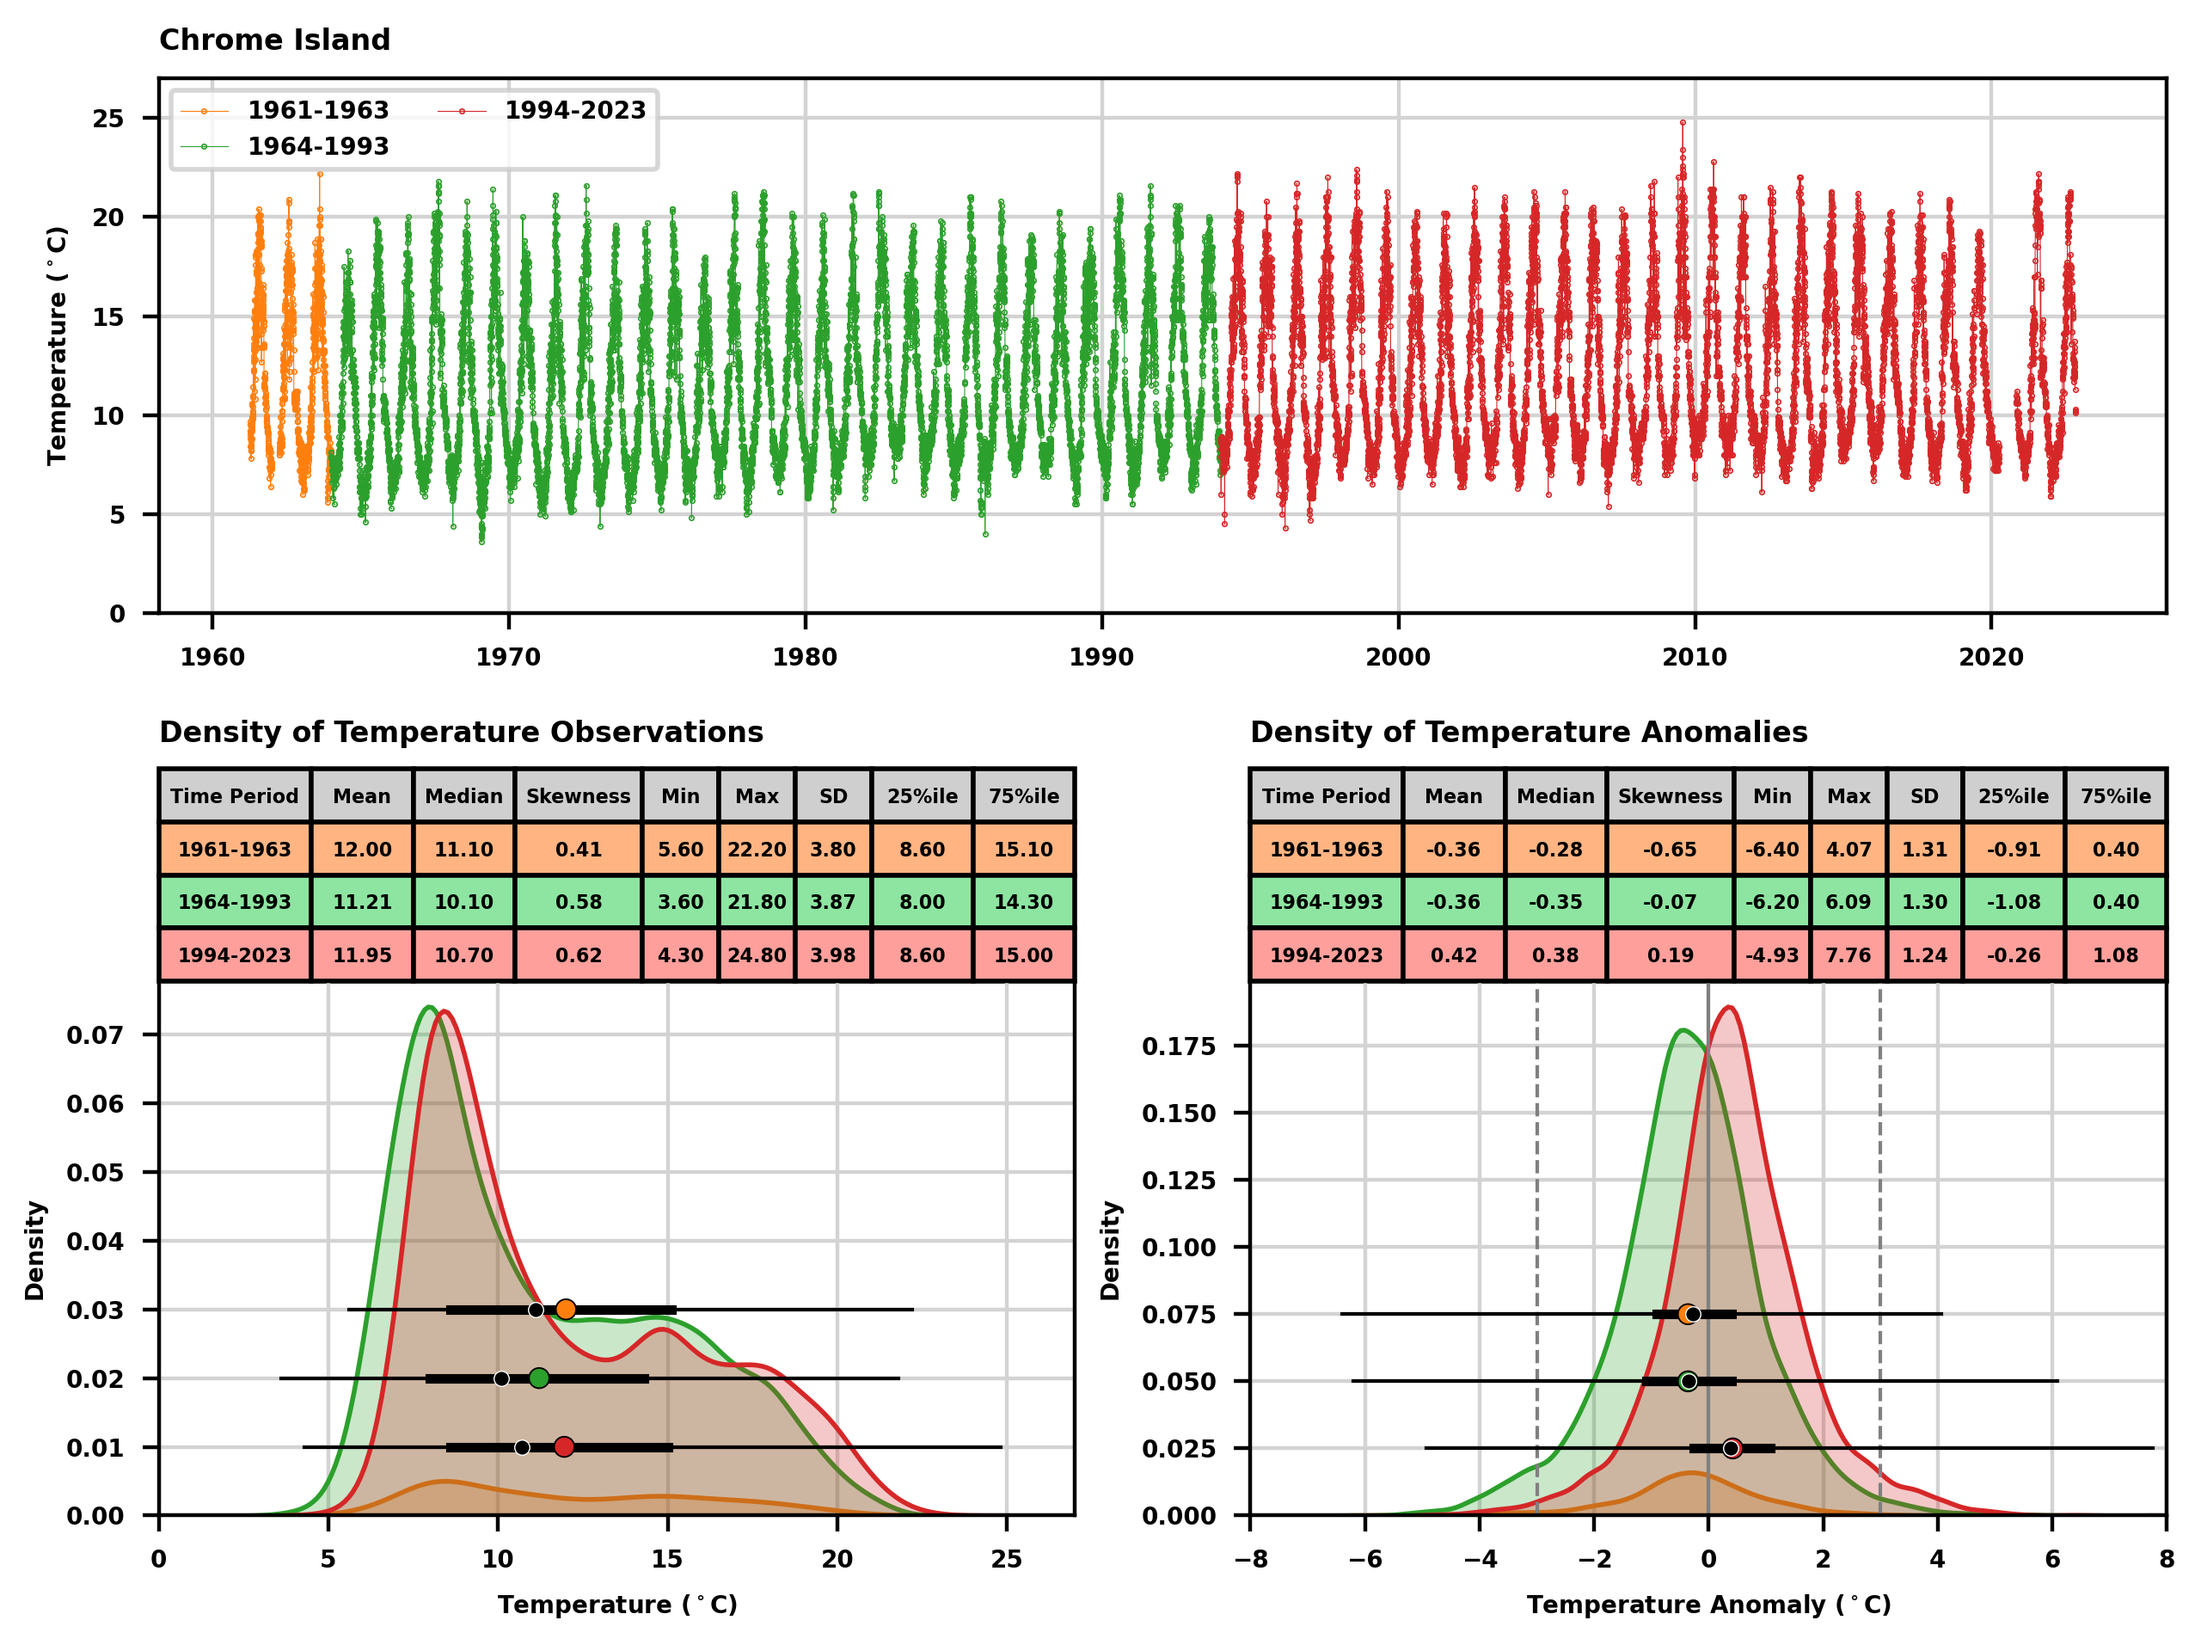
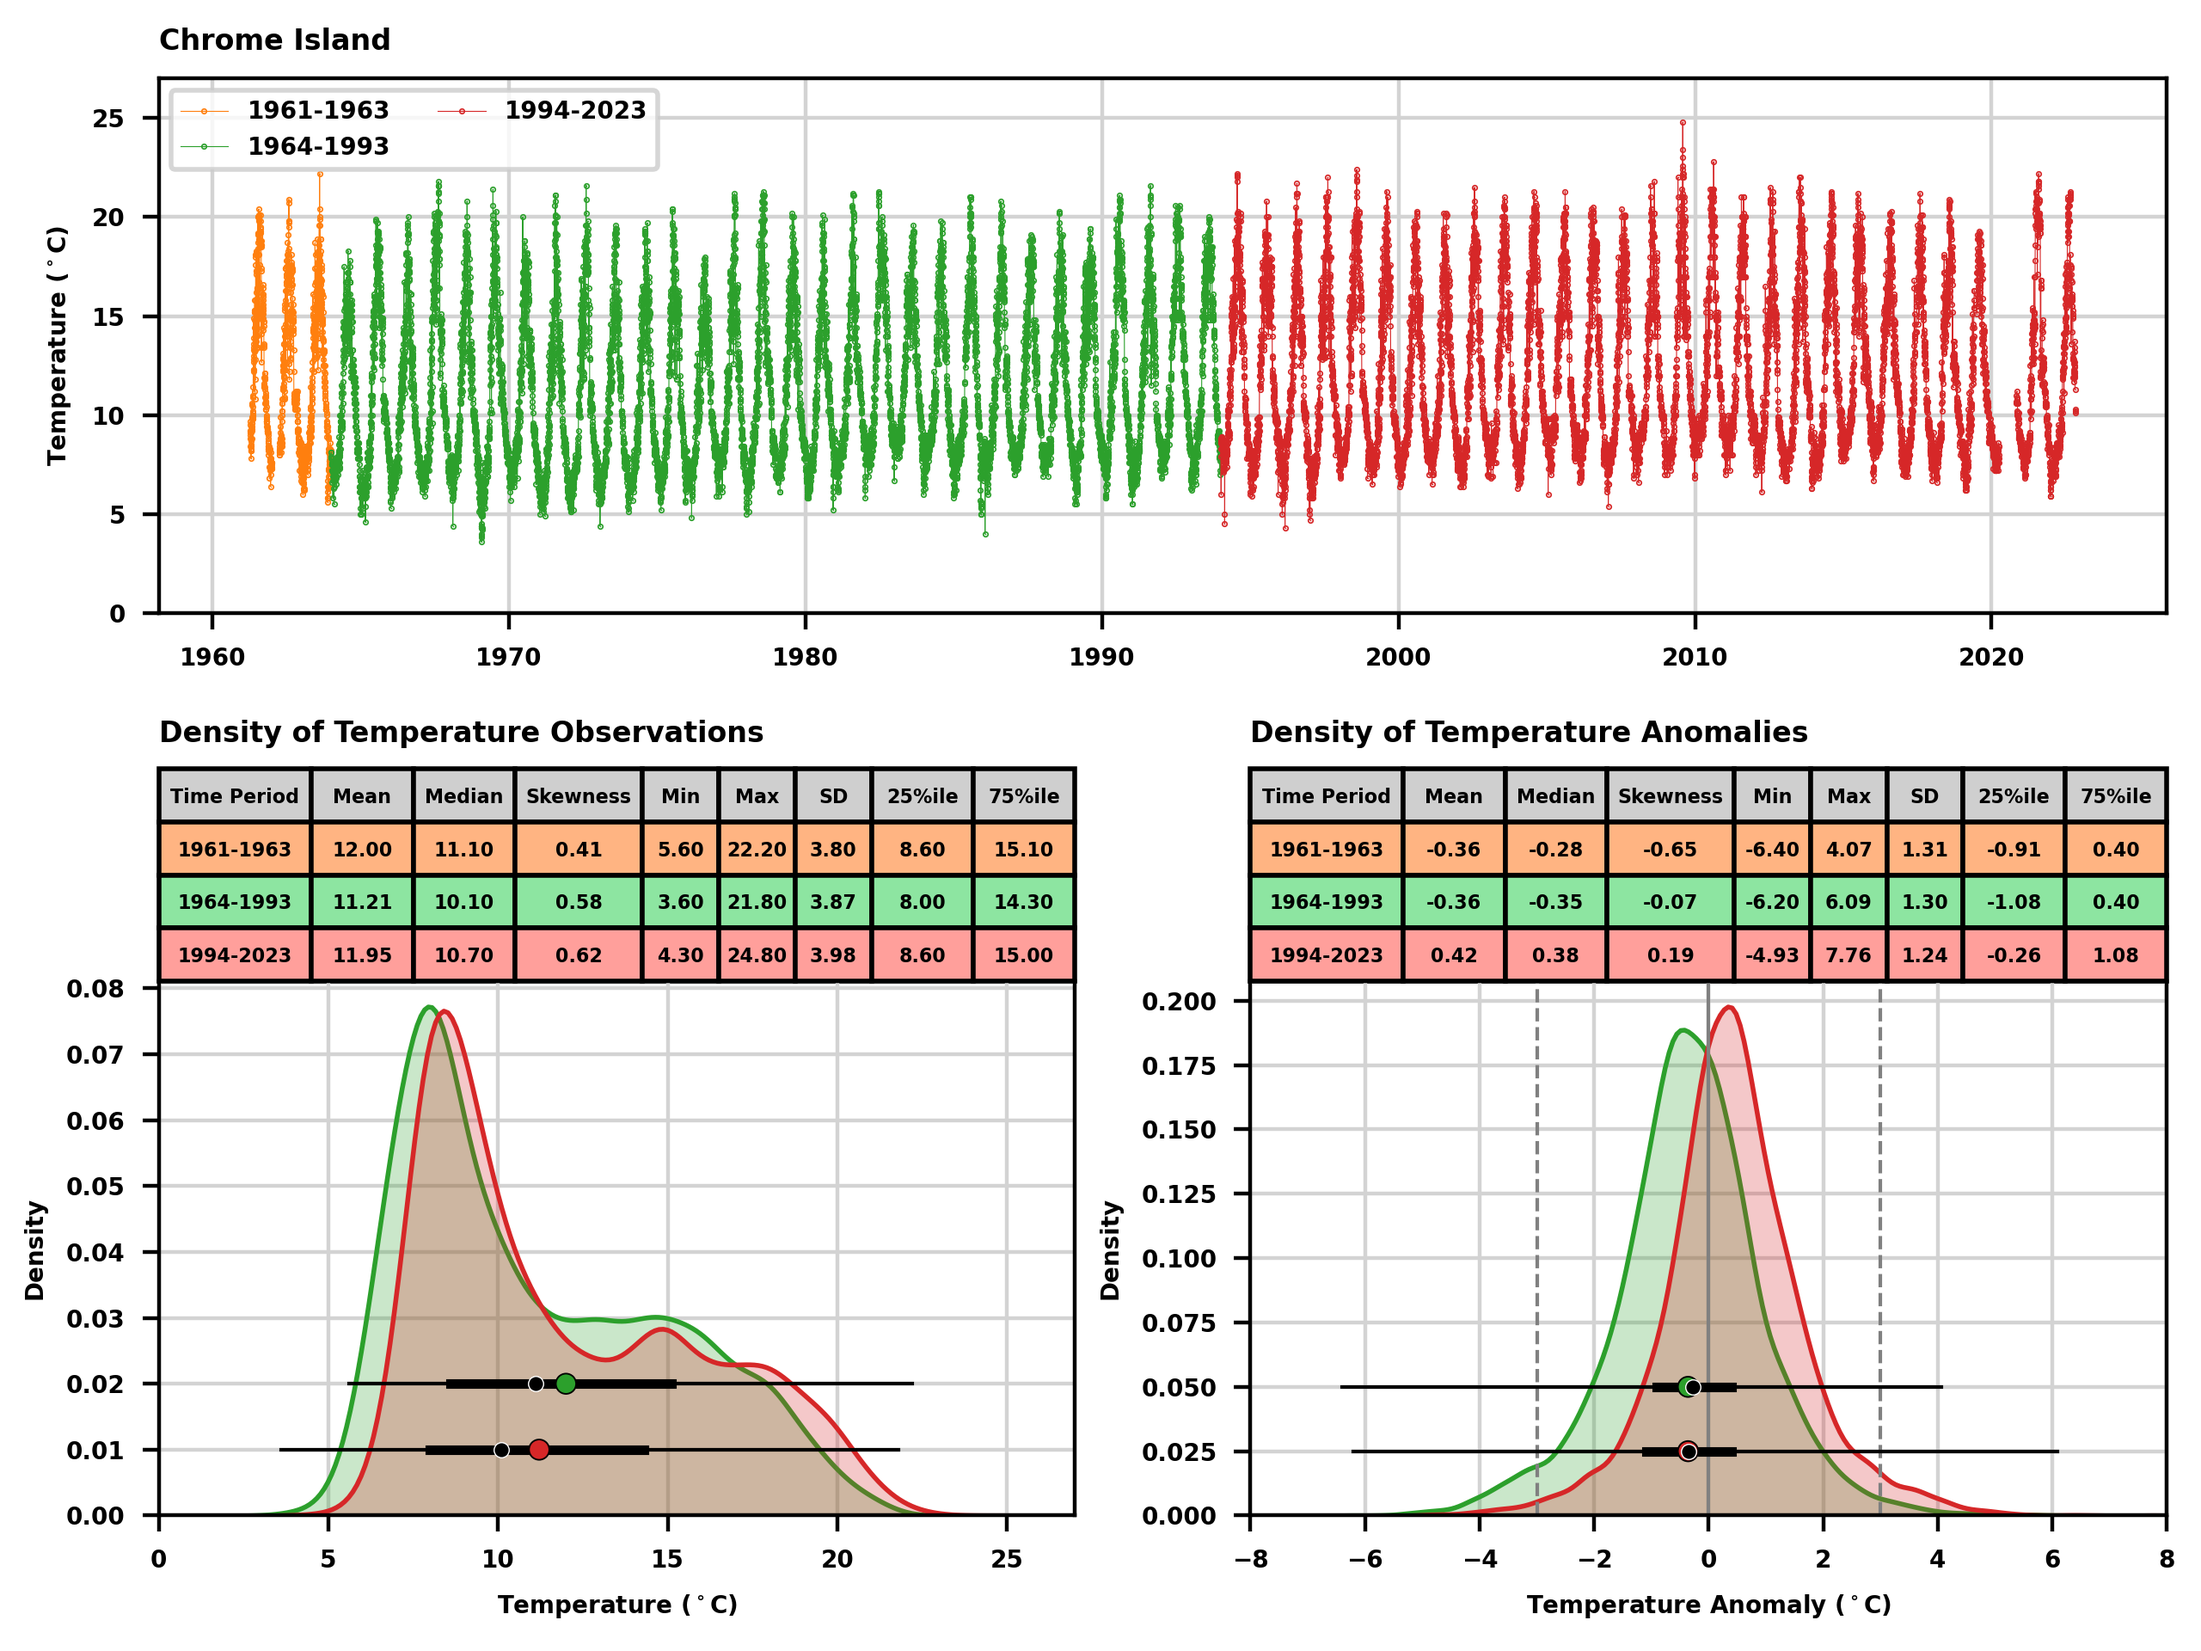
update statistics plots to not show density curves for underrepresented 30-year chunks

diff --git a/scripts/plot_lightstation_temperature.py b/scripts/plot_lightstation_temperature.py
@@ -710,16 +710,40 @@ def sst_all_time_mean(monthly_mean_file):
 
 def make_density_subplot(ax: plt.Axes, df: pd.DataFrame, var: str,
                          year_ranges: list):
+    """
+    Make density subplot using seaborn with an accompanying statistics table
+    :param ax:
+    :param df: data
+    :param var: variable
+    :param year_ranges: list of 30-year chunks for separating the data into for statistics
+    :return:
+    """
     # Column names for statistic tables
     stat_table_cols = ['Time Period', 'Mean', 'Median', 'Skewness', 'Min',
                        'Max', 'SD', '25%ile', '75%ile']
 
+    # Do a second check that there are enough data for density plot (10+ years)
+    # Don't apply this to the stats table though !
+    mask_density_plot = np.repeat(True, len(df))
+    year_ranges_density_plot = []
+    if int(year_ranges[0][-4:]) - int(year_ranges[0][:4]) < 10:
+        mask_density_plot[df.loc[:, 'Year Range'] == year_ranges[0]] = False
+    else:
+        year_ranges_density_plot.append(year_ranges[0])
+
+    for i in range(1, len(year_ranges)):
+        year_ranges_density_plot.append(year_ranges[i])
+
+    print(np.nanmin(df.loc[:, 'Year']))
+    print('year ranges for density plot:', year_ranges_density_plot)
+
+    df_density_plot = df.loc[mask_density_plot, :]
+
     # Suppress legend since it's in the time series plot
     # Have to reverse dataframe order to plot newest data in front
-    color_end = 3-len(year_ranges) if 3 >= len(year_ranges) else None
-    sns.kdeplot(df.loc[::-1, :], x=var, hue='Year Range', fill=True,
-                legend=False, ax=ax,
-                palette=sns.color_palette()[3:color_end:-1])
+    color_end = 3-len(year_ranges_density_plot) if 3 >= len(year_ranges_density_plot) else None
+    sns.kdeplot(df_density_plot.loc[::-1, :], x=var, hue='Year Range', fill=True,
+                legend=False, ax=ax, palette=sns.color_palette()[3:color_end:-1])
     # Add a light grey grid behind the curves
     ax.set_axisbelow(True)
     plt.grid(which='major', axis='both', color='lightgrey')
@@ -802,6 +826,13 @@ def make_density_subplot(ax: plt.Axes, df: pd.DataFrame, var: str,
         columns=['Year Range', 'Mean', 'Median', 'Skew', 'Min', 'Max',
                  'STD', '25%ile', '75%ile']
     )
+
+    # Remove first year range in box plots if it's too short
+    for i, yr in enumerate(year_ranges):
+        if yr not in year_ranges_density_plot:
+            df_stats.drop(index=i, inplace=True)
+            df_stats.reset_index(drop=True, inplace=True)
+
     # Change datatype from string to float, except for Year Range column
     for col in df_stats.columns[1:]:
         df_stats.loc[:, col] = [float(x) for x in df_stats[col]]
@@ -830,8 +861,8 @@ def make_density_subplot(ax: plt.Axes, df: pd.DataFrame, var: str,
     df_whiskers = pd.DataFrame(
         columns=['Year Range', 'minmax', 'quantiles', 'y values'])
 
-    for i in range(len(year_ranges)):
-        yr = year_ranges[i]
+    for i in range(len(year_ranges_density_plot)):
+        yr = year_ranges_density_plot[i]
         # Add a row for min and 25%ile
         df_whiskers.loc[len(df_whiskers)] = [
             yr,
@@ -876,7 +907,7 @@ def make_density_subplot(ax: plt.Axes, df: pd.DataFrame, var: str,
     # ax.margins(y=0.1)
 
     # Add subplot title with padding so it doesn't overlap with table above plot
-    title_pad = len(df_stats) * 10 + 20
+    title_pad = len(cellText) * 10 + 20
     if var == 'Temperature(C)':
         ax.set_title('Density of Temperature Observations', loc='left',
                      pad=title_pad)
@@ -960,11 +991,14 @@ def plot_daily_T_statistics():
             yr = year_ranges_all[k]
             st = int(yr.split('-')[0])
             en = int(yr.split('-')[1])
-
-            if len(df_obs.loc[(st <= year_col) & (year_col <= en), 'Year Range']) > 0:
+            # Proceed if there are data from the select year range
+            obs_exist_from_year_range = len(df_obs.loc[(st <= year_col) & (year_col <= en), 'Year Range']) > 0
+            # min_years_in_range = 10  # short enough to capture 1920's data at Race Rocks
+            # enough_years_in_year_range = np.nanmin(df_obs.loc[:, 'Year']) - st > min_years_in_range
+            if obs_exist_from_year_range:  # & enough_years_in_year_range:
                 if st < int(df_obs['Year'].min()):
                     st = int(df_obs['Year'].min())
-                    year_ranges_all[k] = str(st) + '-' + year_ranges_all[k].split('-')[1]
+                    year_ranges_all[k] = str(st) + '-' + yr.split('-')[1]
                     yr = year_ranges_all[k]
                 # Populate the Year Range column
                 df_obs.loc[(st <= year_col) & (year_col <= en), 'Year Range'] = yr
@@ -1039,12 +1073,12 @@ def plot_daily_T_statistics():
 
 
 def run_plot(
-        plot_monthly_anom: bool = False,
-        plot_clim: bool = False,
-        plot_daily_anom: bool = False,
-        plot_daily_anom_window=None,
-        plot_daily_stats: bool = False,
-        plot_availability: bool = False
+        monthly_anom: bool = False,
+        clim: bool = False,
+        daily_anom: bool = False,
+        daily_anom_window=None,
+        daily_stats: bool = False,
+        availability: bool = False
 ):
     old_dir = os.getcwd()
     new_dir = os.path.dirname(old_dir)
@@ -1071,25 +1105,25 @@ def run_plot(
         "monte_carlo_max_siml50000_ols_st_cummins.csv"
     )
 
-    if plot_availability:
+    if availability:
         plot_data_gaps()
 
-    if plot_monthly_anom:
+    if monthly_anom:
         for stn, f in zip(STATION_NAMES, anom_files):
             png_filename = os.path.join(
                 output_folder, stn.replace(' ', '_') + '_monthly_mean_sst_anomalies_ols.png'
             )
             plot_monthly_anomalies(f, stn, png_filename, best_fit=monte_carlo_results)
 
-    if plot_clim:
+    if clim:
         clim_file = os.path.join(
             input_folder, 'lighthouse_sst_climatology_1991-2020.csv')
         plot_climatology(clim_file=clim_file, output_dir=output_folder)
 
-    if plot_daily_anom:
-        plot_daily_filled_anomalies(2023, do_smooth=True, window=plot_daily_anom_window)
+    if daily_anom:
+        plot_daily_filled_anomalies(2023, do_smooth=True, window=daily_anom_window)
 
-    if plot_daily_stats:
+    if daily_stats:
         plot_daily_T_statistics()
 
     os.chdir(old_dir)
